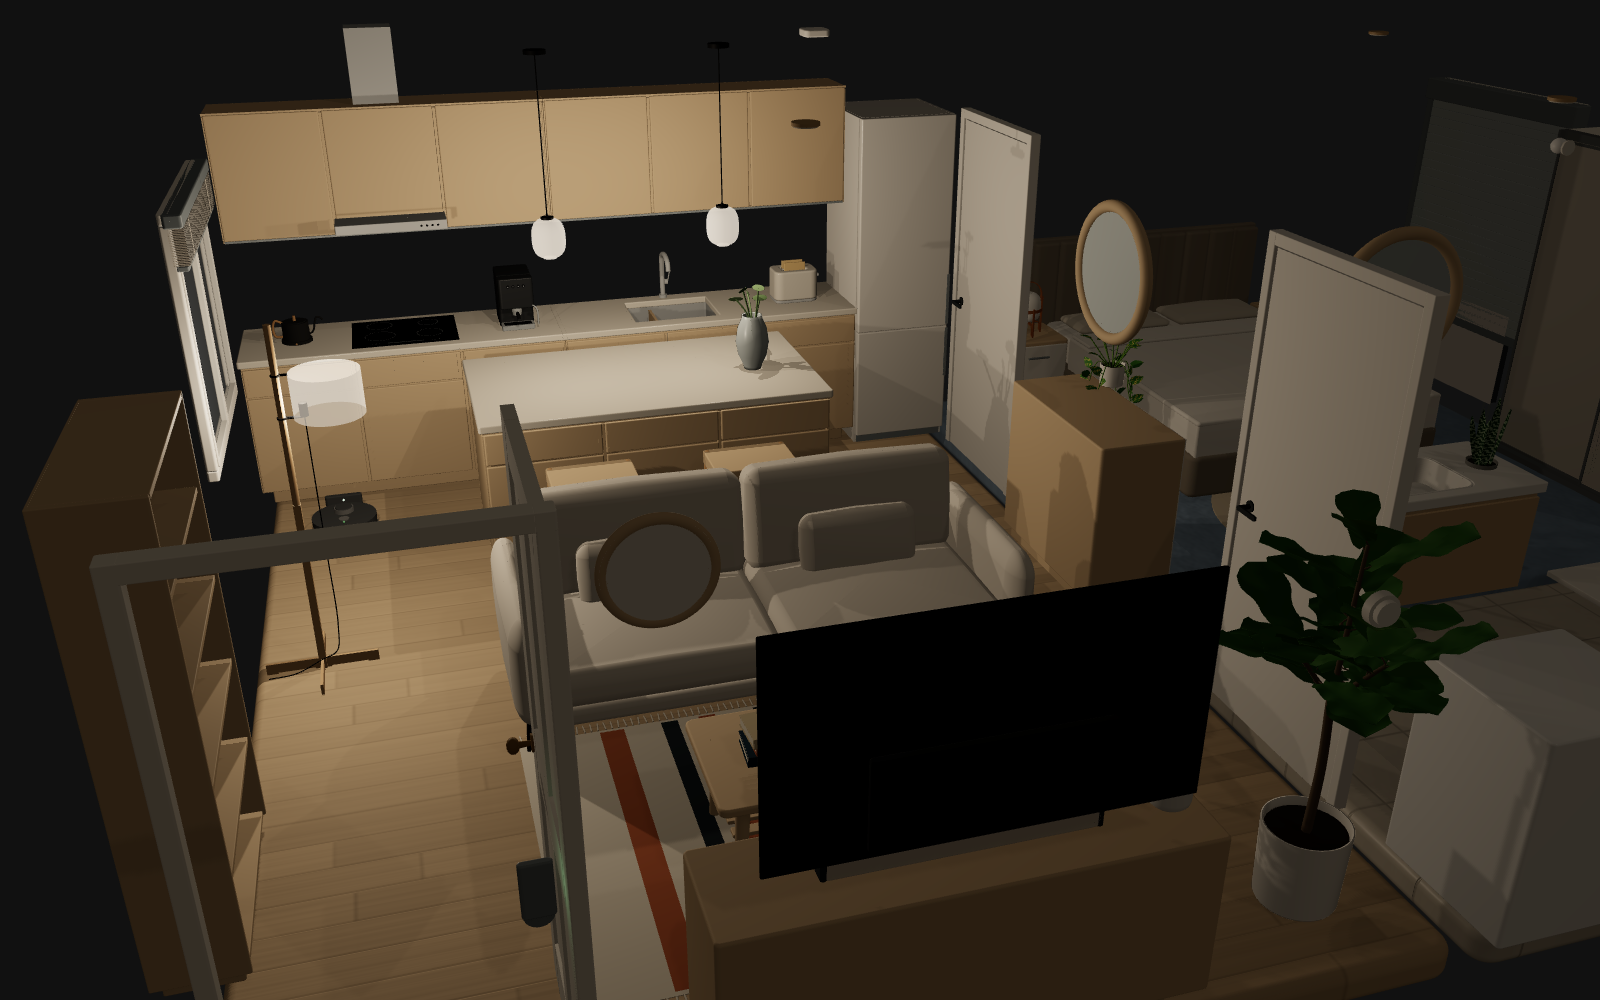
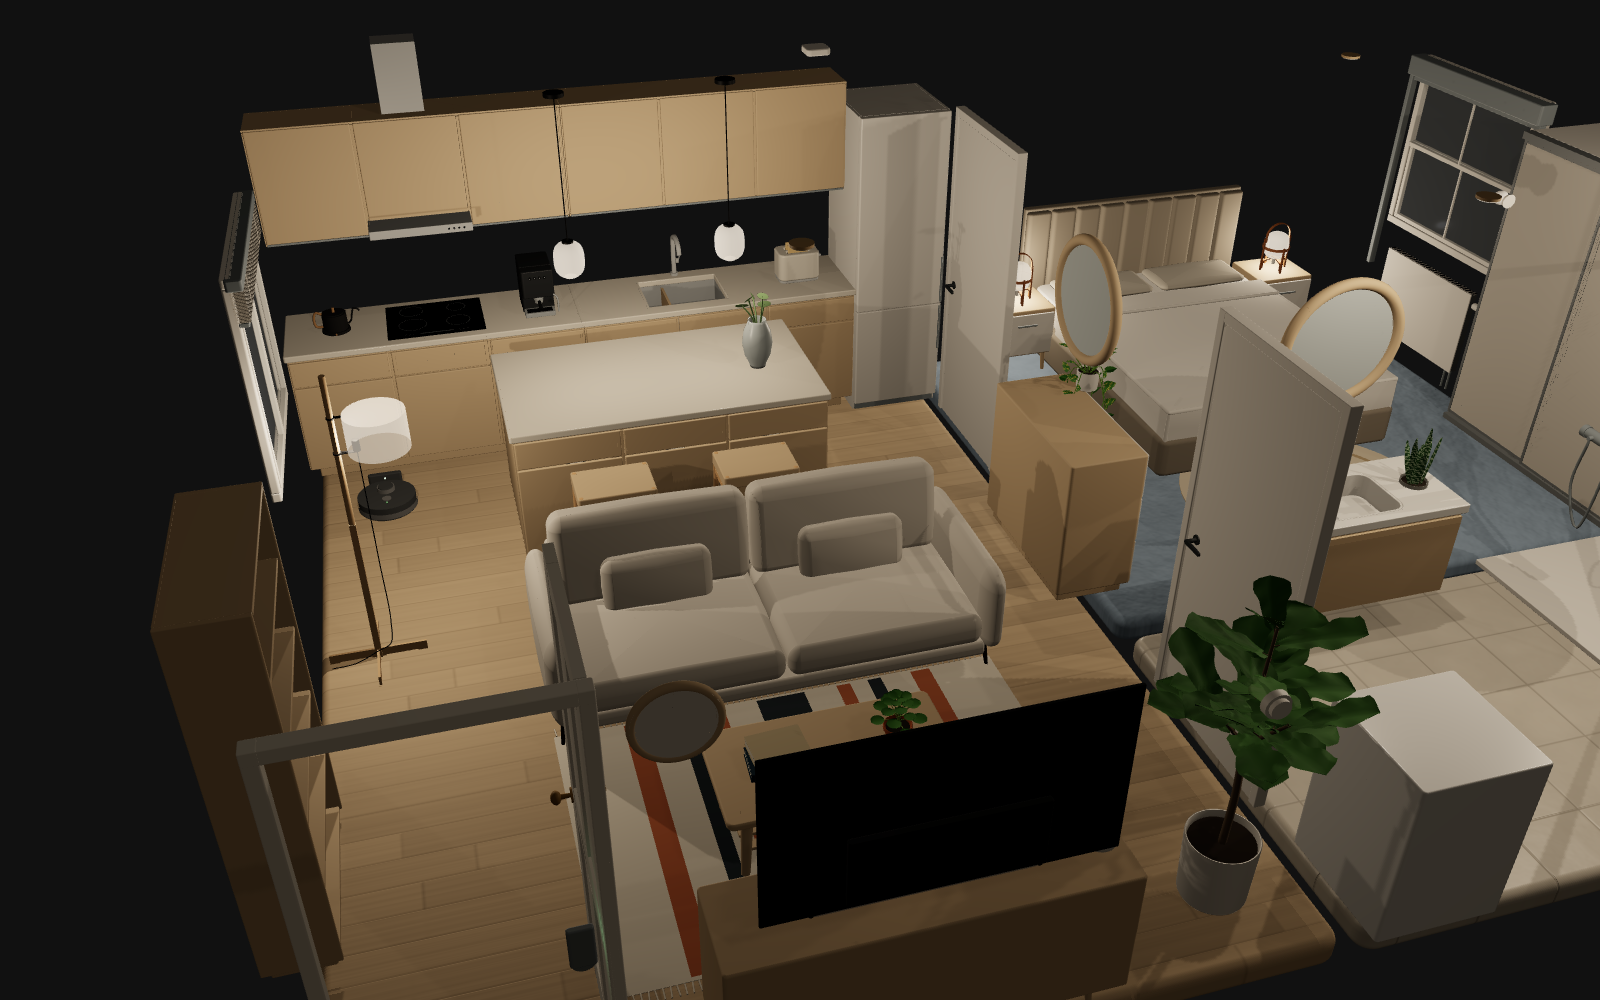
Light every room in the opening shot, raise its camera and take the lights pair a little later in the evening
The first README photo now has the bedside lamps and the bathroom spots on as well, seen from a bit higher so both rooms show. The lights off and on pair is shot with the sun a degree lower, so the evening light is dimmer on its own rather than through any setting.

diff --git a/scripts/demoflat.plan.ts b/scripts/demoflat.plan.ts
@@ -179,7 +179,7 @@ export const DEMO_FLAT: CardConfig = {
       points: LIVING,
       floor: { material: 'wood' },
       // A click on the floor flies to a close-up of the room.
-      camera: { position: [0.9, 3.4, 2.8], target: [2.7, 0.5, -3.2] },
+      camera: { position: [0.9, 4.6, 3.0], target: [2.7, 0.5, -3.2] },
     },
     {
       id: 'bedroom',

diff --git a/README.md b/README.md
@@ -4,7 +4,7 @@ A Home Assistant card that turns your home into a small 3D model you can click.
 
 Draw your rooms, furnish them from a catalog of sofas, lamps, doors, blinds, appliances and sensors, then bind the pieces to your real Home Assistant devices. The model shows what your home is doing right now: a lamp glows when the light is on, a blind sits where the cover is, a door swings open when the sensor says so. Click a piece and the device behind it toggles.
 
-![The living room and kitchen at dusk, the floor lamp and the pendants on](docs/images/living-dusk.png)
+![The demo flat at dusk seen from over the living room, with a lamp on in every room](docs/images/living-dusk.png)
 
 ## What you get
 
